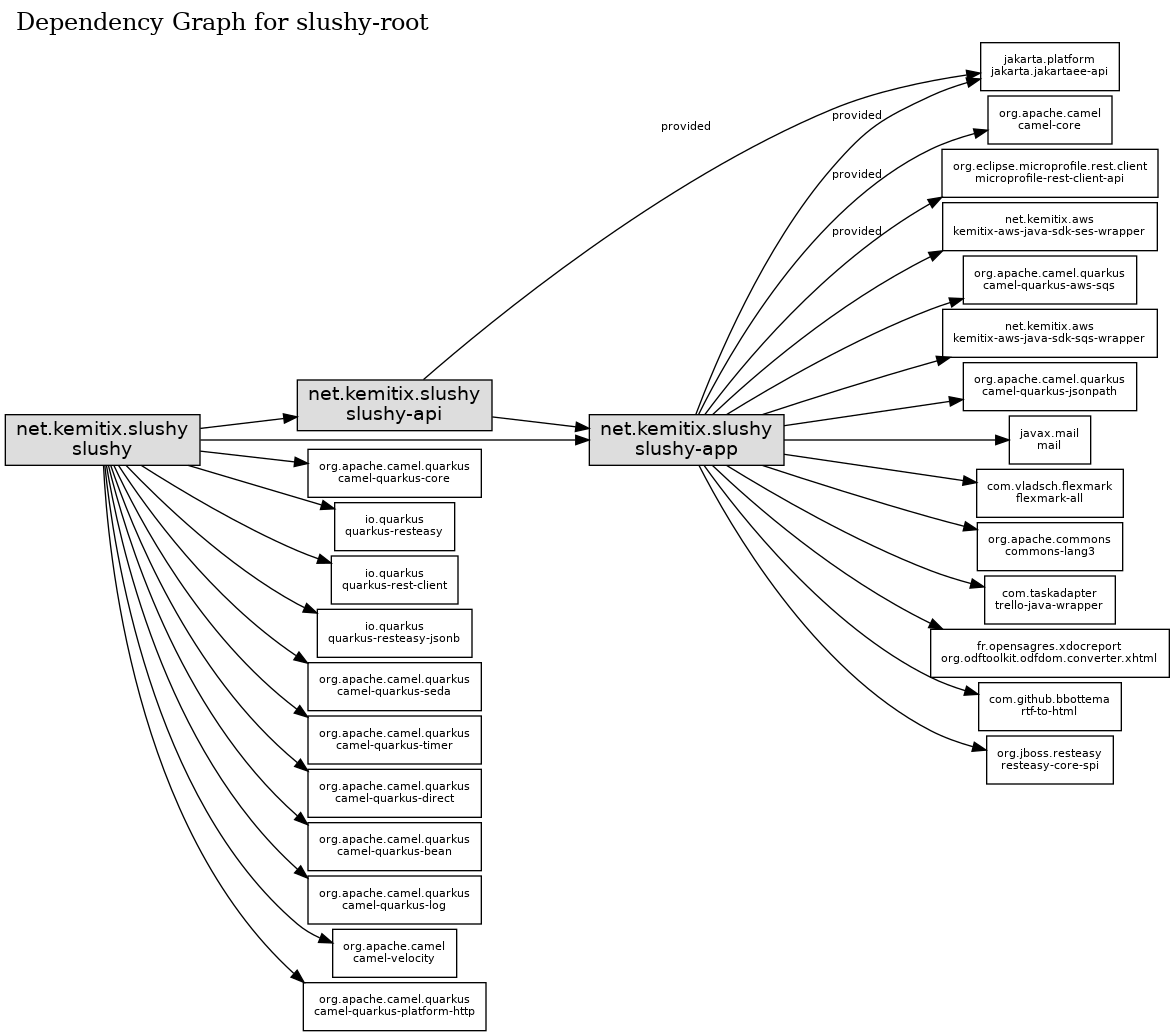
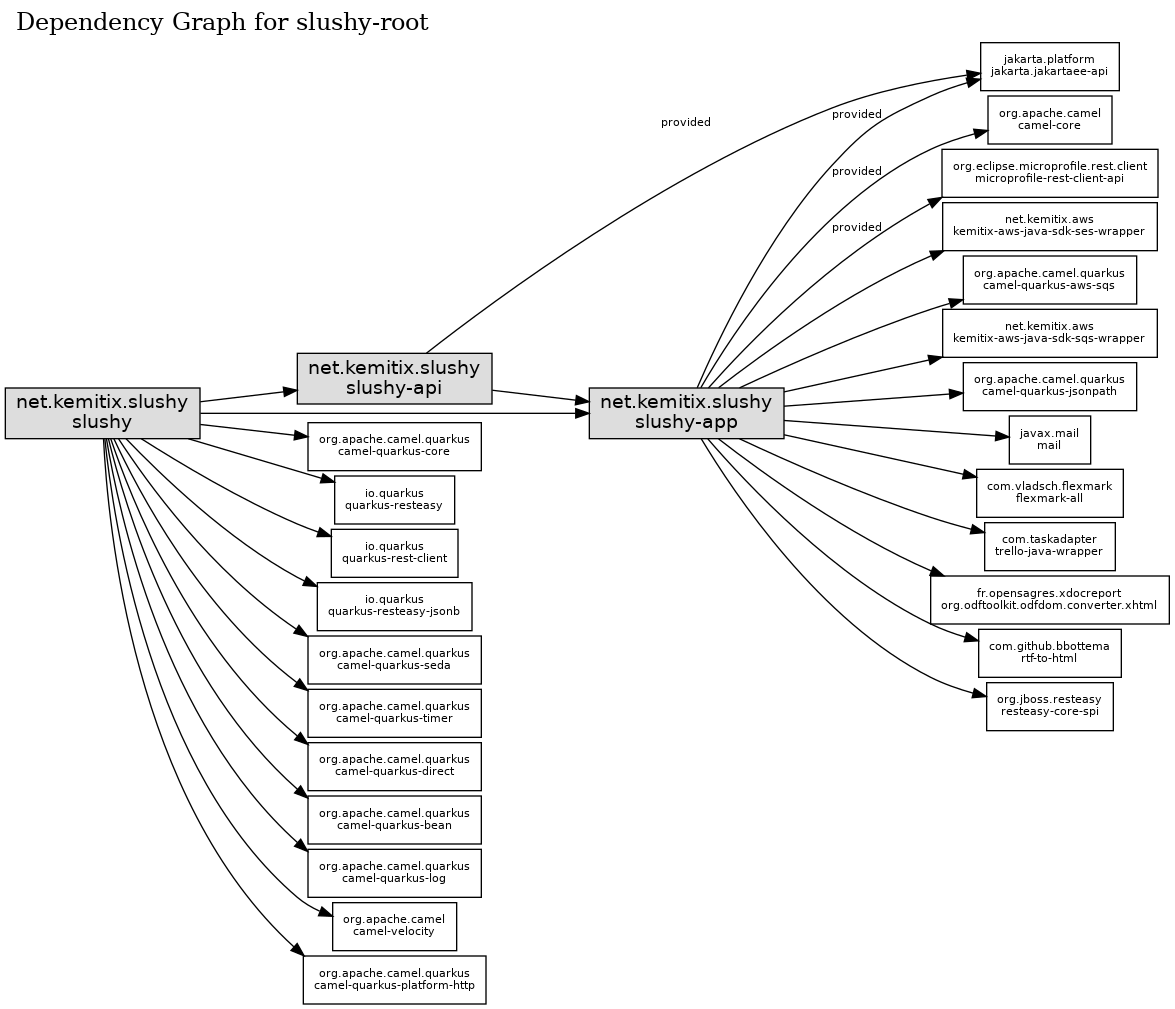
Fix RTF encoding for quotes, etc (#179)
* pom: remove unused commons-lang3 dependency

* app.fileconversion: add RtfCleaner

* Version set to 1.18.2

diff --git a/slushy-app/src/main/java/net/kemitix/slushy/app/fileconversion/RtfToHtmlAttachmentConverter.java b/slushy-app/src/main/java/net/kemitix/slushy/app/fileconversion/RtfToHtmlAttachmentConverter.java
@@ -17,10 +17,11 @@ import java.util.stream.Stream;
 @Log
 @ApplicationScoped
 public class RtfToHtmlAttachmentConverter
-        implements AttachmentConverter{
+        implements AttachmentConverter {
 
     @Inject RTF2HTMLConverter converter;
     @Inject HtmlCleaner htmlCleaner;
+    @Inject RtfCleaner rtfCleaner;
 
     @Override
     public boolean canHandle(Attachment attachment) {
@@ -37,7 +38,9 @@ public class RtfToHtmlAttachmentConverter
     ) {
         try {
             String rtfString = Files.readString(sourceFile.toPath());
-            String html = converter.rtf2html(htmlCleaner.clean(rtfString));
+            String html = converter.rtf2html(
+                    rtfCleaner.clean(
+                            htmlCleaner.clean(rtfString)));
             Files.writeString(targetFile.toPath(), html);
             if (targetFile.exists()) {
                 return Optional.of(

diff --git a/slushy-app/src/main/java/net/kemitix/slushy/app/fileconversion/RtfCleaner.java b/slushy-app/src/main/java/net/kemitix/slushy/app/fileconversion/RtfCleaner.java
@@ -1,0 +1,22 @@
+package net.kemitix.slushy.app.fileconversion;
+
+import javax.enterprise.context.ApplicationScoped;
+import java.util.Arrays;
+import java.util.concurrent.atomic.AtomicReference;
+
+@ApplicationScoped
+public class RtfCleaner {
+
+    public String clean(String rtfString) {
+        var text = new AtomicReference<>(rtfString);
+        Arrays.stream(new String[][]{
+                {"[{][\\\\]u8220[\\\\]'93[}]", "&ldquo;"},
+                {"[{][\\\\]u8221[\\\\]'94[}]", "&rdquo;"},
+                {"[{][\\\\]u8217[\\\\]'92[}]", "&apos;"},
+        }).forEach(e ->
+                text.updateAndGet(x ->
+                        x.replaceAll(e[0], e[1])));
+        return text.get();
+    }
+
+}
